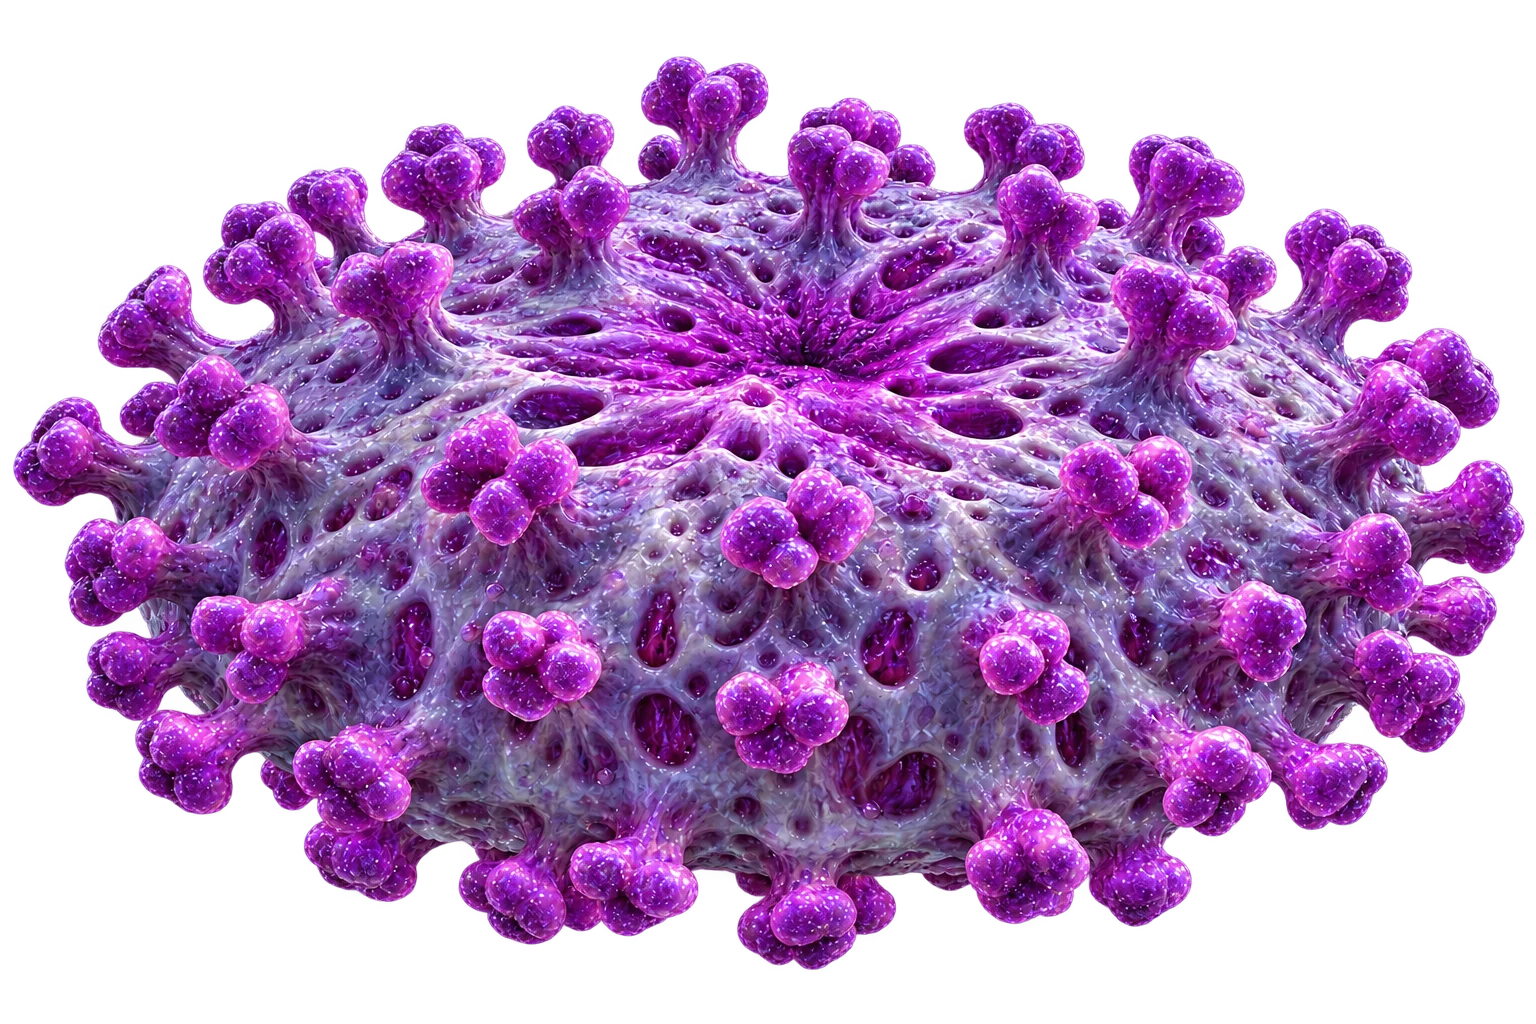
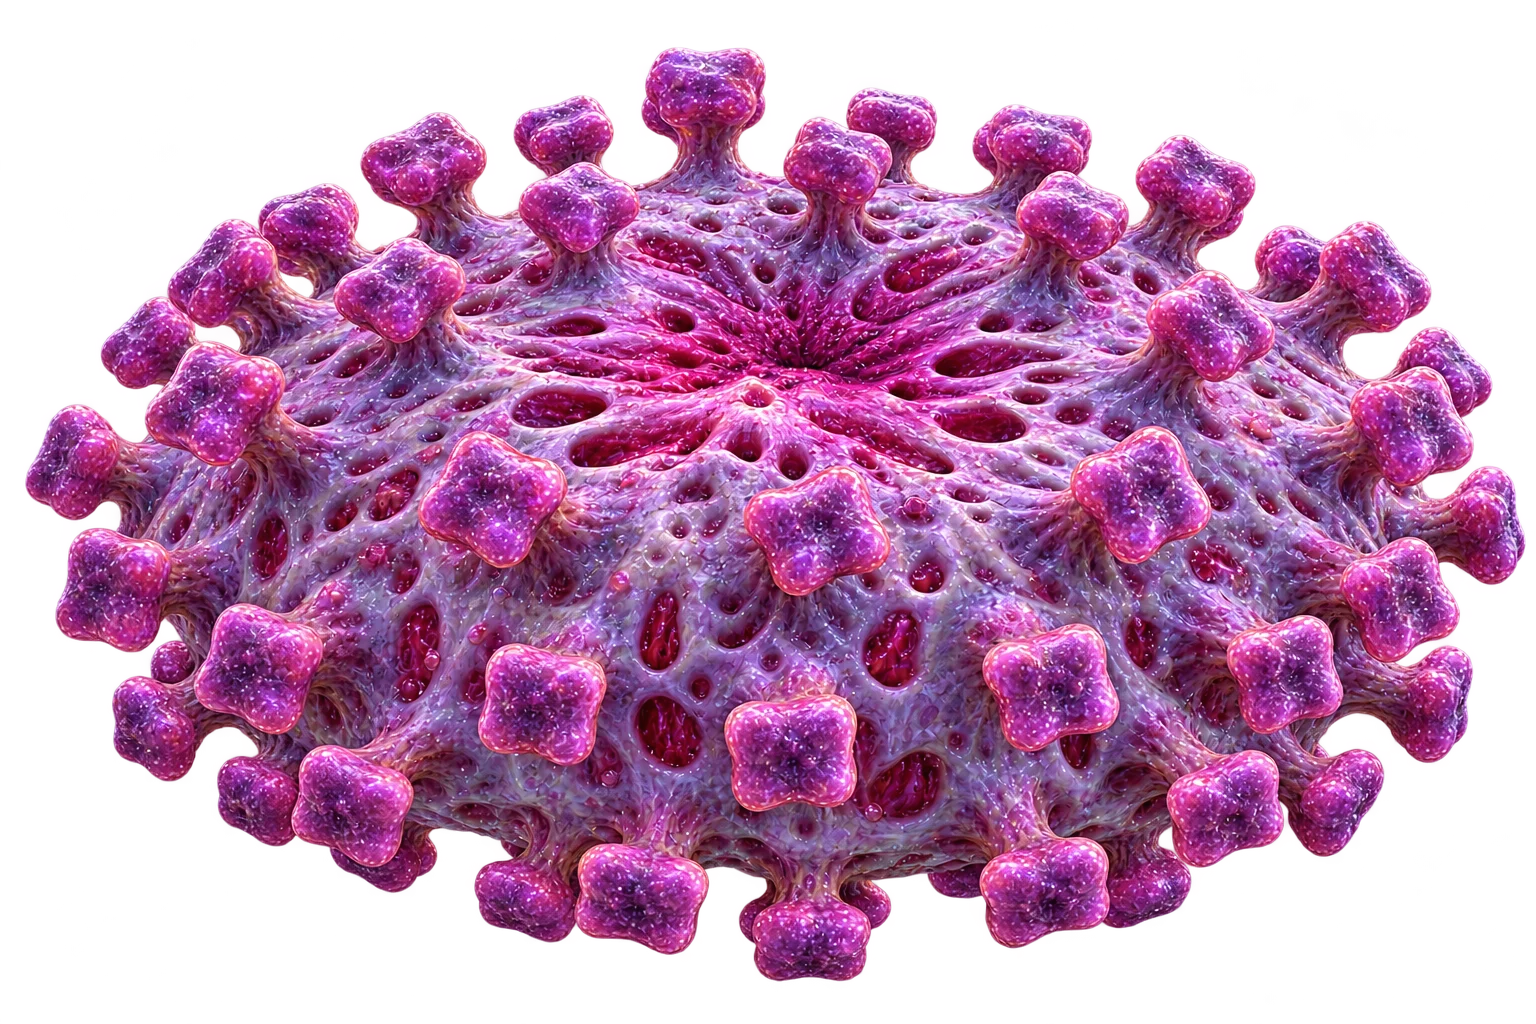
Differentiate beta variant protrusions

diff --git a/docs/monsters.md b/docs/monsters.md
@@ -63,12 +63,12 @@
 | M016 | 匿龍・右塔ボス（固有名TBD） | 物語の敵 | 青年後半・右塔5階OVS-14 | アビリティのみ有効 | 未定 | M003共通意匠の戦闘個体。順序自由、左はM015。双頭意匠の具体図TBD | 未生成・設計枠 | #71 |
 | M017 | 荒波の触手 | 物語の敵（体内） | 体内ダンジョン・心臓。水の召喚獣S001の合体前 | 未定 | 未定 | 雑魚敵。葛飾北斎の浮世絵の波のように、触手のような先端へ伸びる白い荒波。各個体に足と中央があり、複数体が集まってS001となる | 生成済み・採用: `assets/images/enemies/M017.webp`（kako-jun承認 2026-10-19） | #130 |
 | M018 | アルファ株 | 物語の敵（体内） | 右手・左手・右足・左足のいずれか（未割当） | 未定 | 未定 | コロナ変異株の中ボス。M010と同系列、青色で明瞭な三角形の突起 | 採用: `assets/images/enemies/M018.webp`（1536×1024、WebP品質85・alpha保持、作り直しをkako-jun目視採用 2026-10-20）。旧画像の別名保存は不要（kako-jun 2026-10-20） | 2026-10-20 kako-jun |
-| M019 | ベータ株 | 物語の敵（体内） | 右手・左手・右足・左足のいずれか（未割当） | 未定 | 未定 | コロナ変異株の中ボス。M010と同系列、紫色で丸みのある突起 | 採用: `assets/images/enemies/M019.webp`（1536×1024、WebP品質85・alpha保持、kako-jun目視採用 2026-10-20） | 2026-10-20 kako-jun |
+| M019 | ベータ株 | 物語の敵（体内） | 右手・左手・右足・左足のいずれか（未割当） | 未定 | 未定 | コロナ変異株の中ボス。M010と同系列、紫色で丸みのある四角形の突起 | 採用: `assets/images/enemies/M019.webp`（1536×1024、WebP品質85・alpha保持、作り直しをkako-jun目視採用 2026-10-20） | 2026-10-20 kako-jun |
 | M020 | ガンマ株 | 物語の敵（体内） | 右手・左手・右足・左足のいずれか（未割当） | 未定 | 未定 | コロナ変異株の中ボス。M010と同系列、金色で星形の突起 | 採用: `assets/images/enemies/M020.webp`（1536×1024、WebP品質85・alpha保持、kako-jun目視採用 2026-10-20） | 2026-10-20 kako-jun |
 | M021 | デルタ株 | 物語の敵（体内） | 右手・左手・右足・左足のいずれか（未割当） | 未定 | 未定 | コロナ変異株の中ボス。M010と同系列、緑色で先が分かれた突起 | 採用: `assets/images/enemies/M021.webp`（1536×1024、WebP品質85・alpha保持、kako-jun目視採用 2026-10-20） | 2026-10-20 kako-jun |
 | （ID未割当・要確認） | 4階の鏡（ボス扱い。ID・ギミック・強さは要確認 #87） | 物語の敵 | デパート4階KRB-05（隠し階。映った自分たち自身。技「ものまね」。兼六園には出ない。kako-jun決定 2026-10-19） | 未定 | 未定 | 未定 | 未着手 | #87 |
 
-M010の造形（kako-jun採用 2026-10-20）: 胃の盾役を踏まえ、幅広く扁平なウイルスの本体にコロナ状の短い突起を備え、長い触手を持たない。既存M132の緑紫の球体と長い触手のシルエットとは区別する。残り4株は同じ系列と分かる共通性を維持しつつ、色と周囲の形に個性を持たせる。各株の色・形は未決。
+M010の造形（kako-jun採用 2026-10-20）: 胃の盾役を踏まえ、幅広く扁平なウイルスの本体にコロナ状の短い突起を備え、長い触手を持たない。既存M132の緑紫の球体と長い触手のシルエットとは区別する。残り4株は同じ系列と分かる共通性を維持しつつ、色と周囲の形に個性を持たせる。各株の色・形は上記の採用画像を参照。
 
 体内の通常敵の方向（kako-jun 2026-10-20）: コロナ変異株の中ボスとは別に、体内にある身近な「悪いもの」や病原体を題材にする。例は「あくだまこれすてろーる」と「ほんこんえーがた」。後者は既存のstory.mdの「インフルエンザのA香港型」と対応する候補。LDLコレステロールは病原菌ではなく、インフルエンザも誰の体内にも常在するものではないため、体内の敵は現実をそのまま再現したものではなくイマジナリーな表現とする。両者の個別ID・サイズ・出現部位・姿は未決。病名・株名は既存方針どおり専門家確認を受ける。
 
